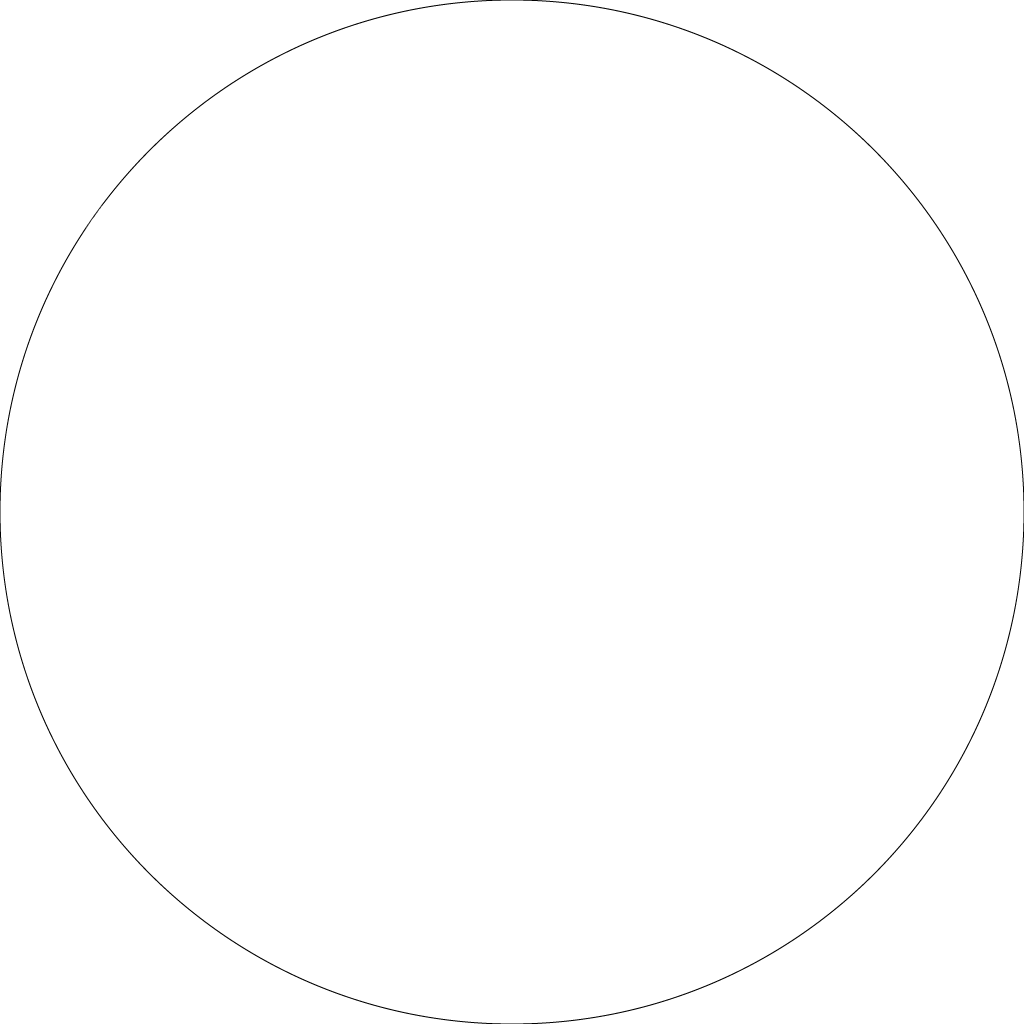
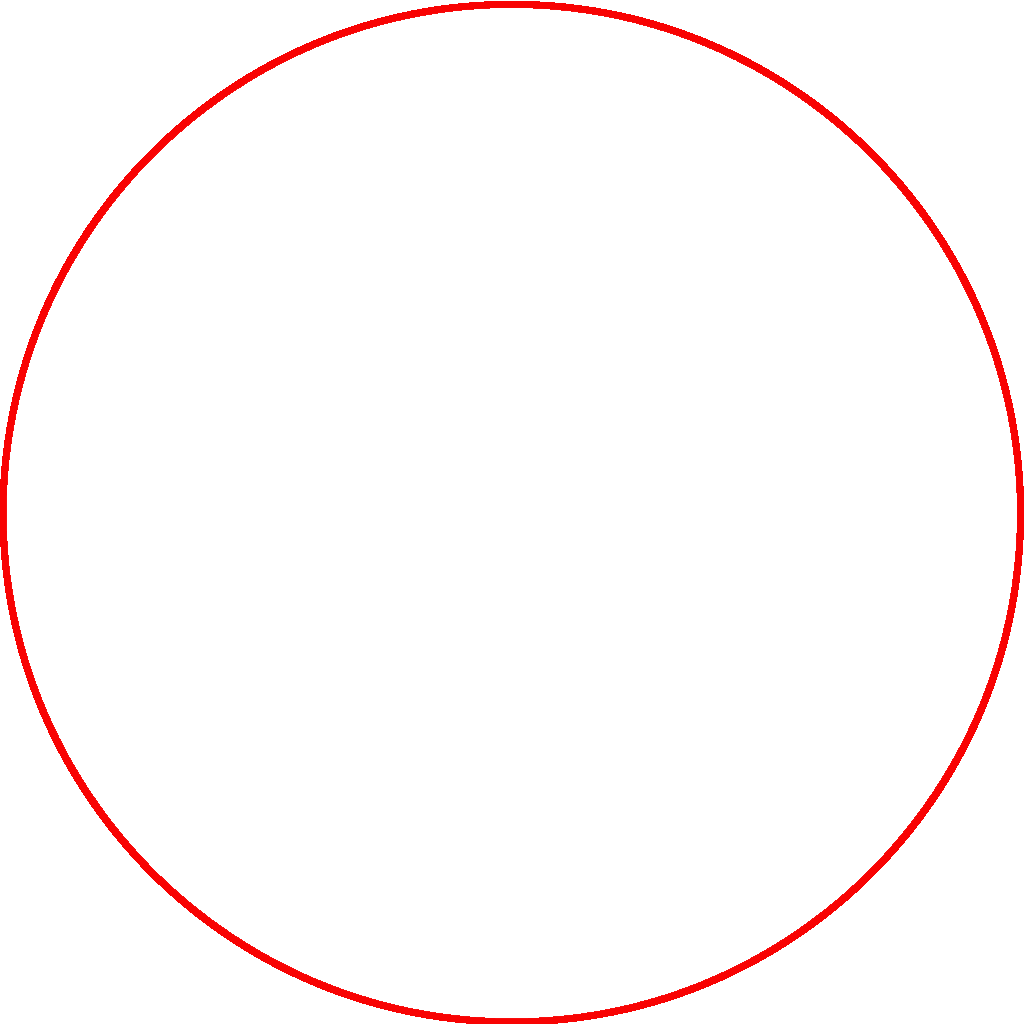
サークル画像を差し替え。 戦闘開始ボタンと逃げるボタンを仕様に合わせて実装。

diff --git a/TeamZenmaiSiki/Assets/Scripts/Marumoto/Battle/TurnManager/TurnManager.cs b/TeamZenmaiSiki/Assets/Scripts/Marumoto/Battle/TurnManager/TurnManager.cs
@@ -47,7 +47,6 @@ public class TurnManager : MonoBehaviour {
     private List<Functions> turnFunctions;  //ターンのフェーズごとに関数に格納
     private int functionNumber;             //現在の関数のID
     private int oldID;                      //1フレーム前のFunctionID
-    private bool libraCheck;                //Libra画面を一度確認したかどうか。
 
     void Awake()
     {
@@ -83,12 +82,7 @@ public class TurnManager : MonoBehaviour {
     /// </summary>
     void Libra()
     {
-        if (libraCheck)
-        {
-            ProgressFunction();
-        }
-        //TODO:長押しで情報表示
-        //Debug.Log("Libra");
+        //特に処理はなし。
     }
 
     /// <summary>
@@ -96,7 +90,6 @@ public class TurnManager : MonoBehaviour {
     /// </summary>
     void PlayerAttack()
     {
-        if (!libraCheck) libraCheck = true;
         playerAttackController.GenerateAttackCircle();
     }
 
@@ -113,6 +106,15 @@ public class TurnManager : MonoBehaviour {
     /// </summary>
     public void ButtonManagement()
     {
+        if(functionNumber == (int)FunctionID.LIBRA)
+        {
+            buttonManager[(int)ButtonID.ATTACK].SetInteractable(true);
+        }
+        else
+        {
+            buttonManager[(int)ButtonID.ATTACK].SetInteractable(false);
+        }
+
         if (EnemyLast())
         {
             CanAvoid();
@@ -124,7 +126,6 @@ public class TurnManager : MonoBehaviour {
     /// </summary>
     private void SetupTurnFunctions()
     {
-        libraCheck = false;
         functionNumber = 0;
         turnFunctions = new List<Functions>();
         turnFunctions.Add(Libra);

diff --git a/TeamZenmaiSiki/Assets/Scripts/Marumoto/Battle/TurnManager/BattleButton.cs b/TeamZenmaiSiki/Assets/Scripts/Marumoto/Battle/TurnManager/BattleButton.cs
@@ -5,6 +5,5 @@ public class BattleButton : MonoBehaviour {
     public void BattleStart()
     {
         TurnManager.Instance.ProgressFunction();
-        Destroy(this.gameObject);
     }
 }
